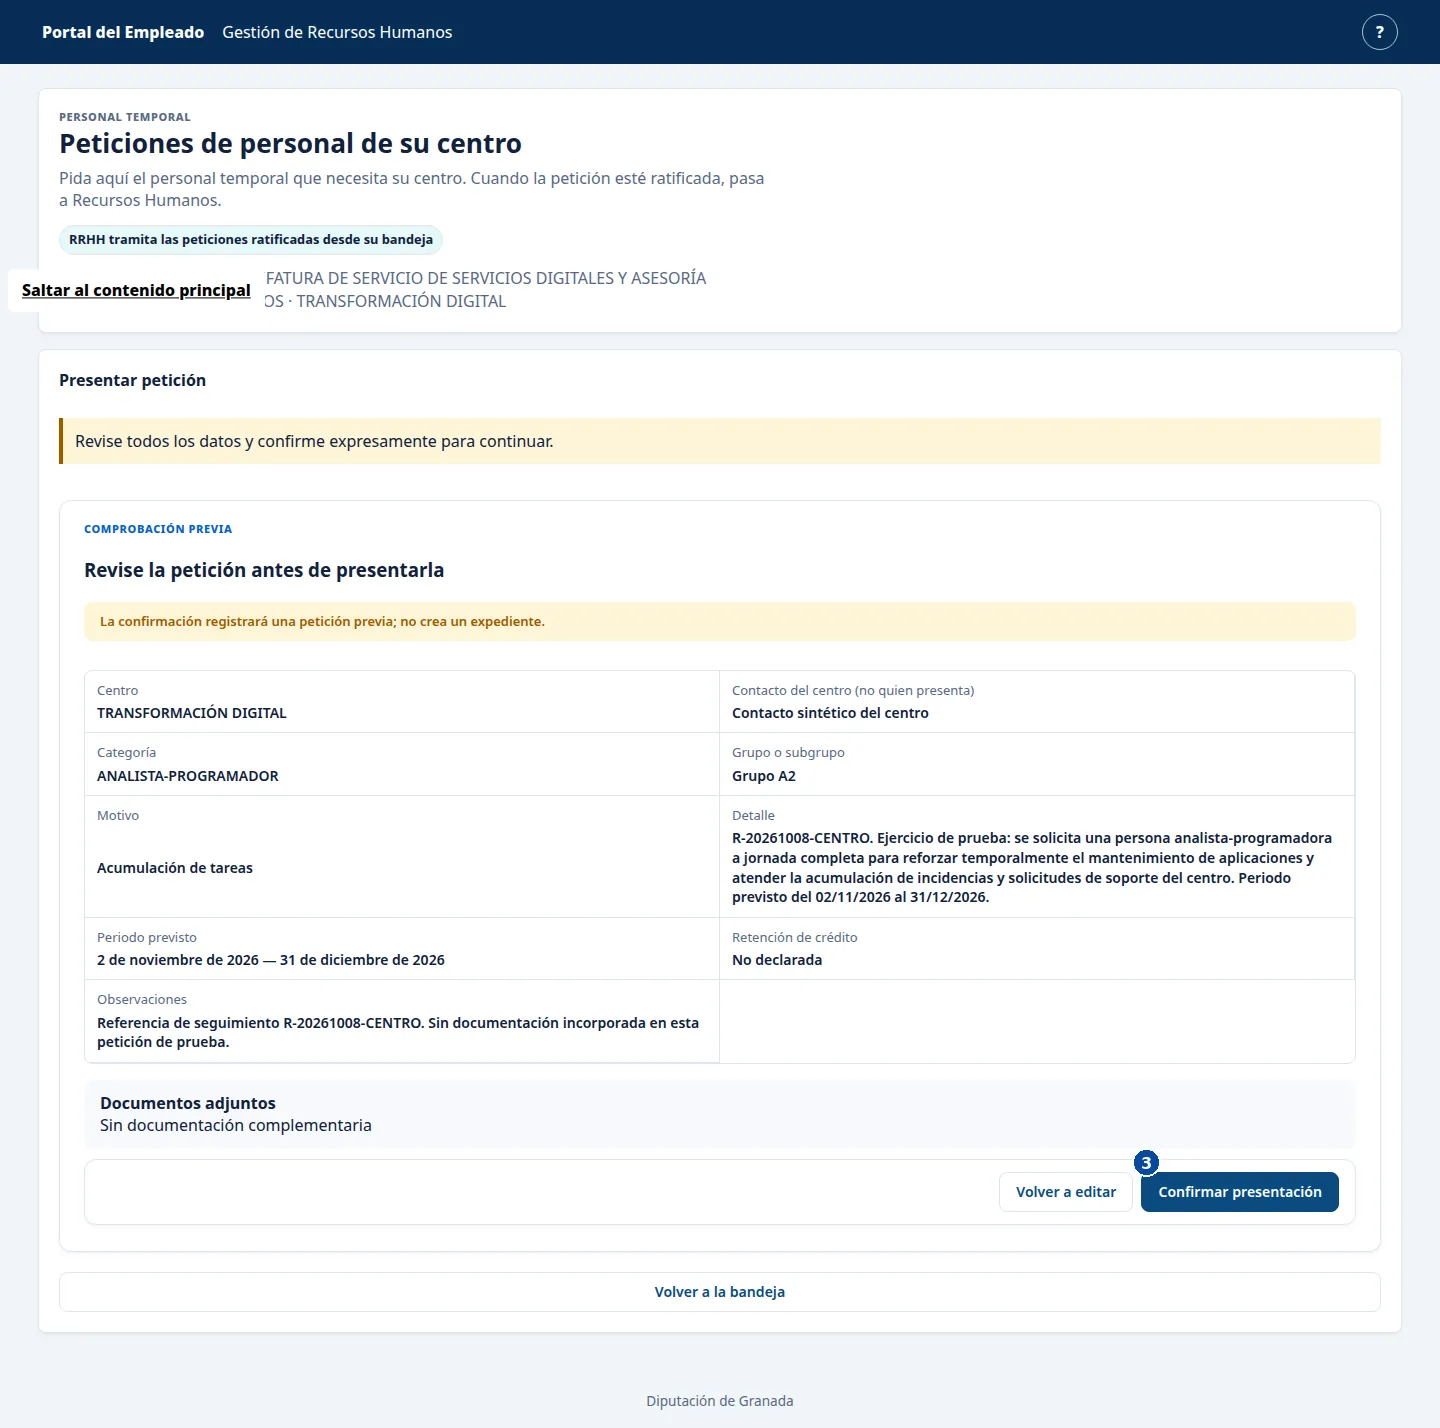
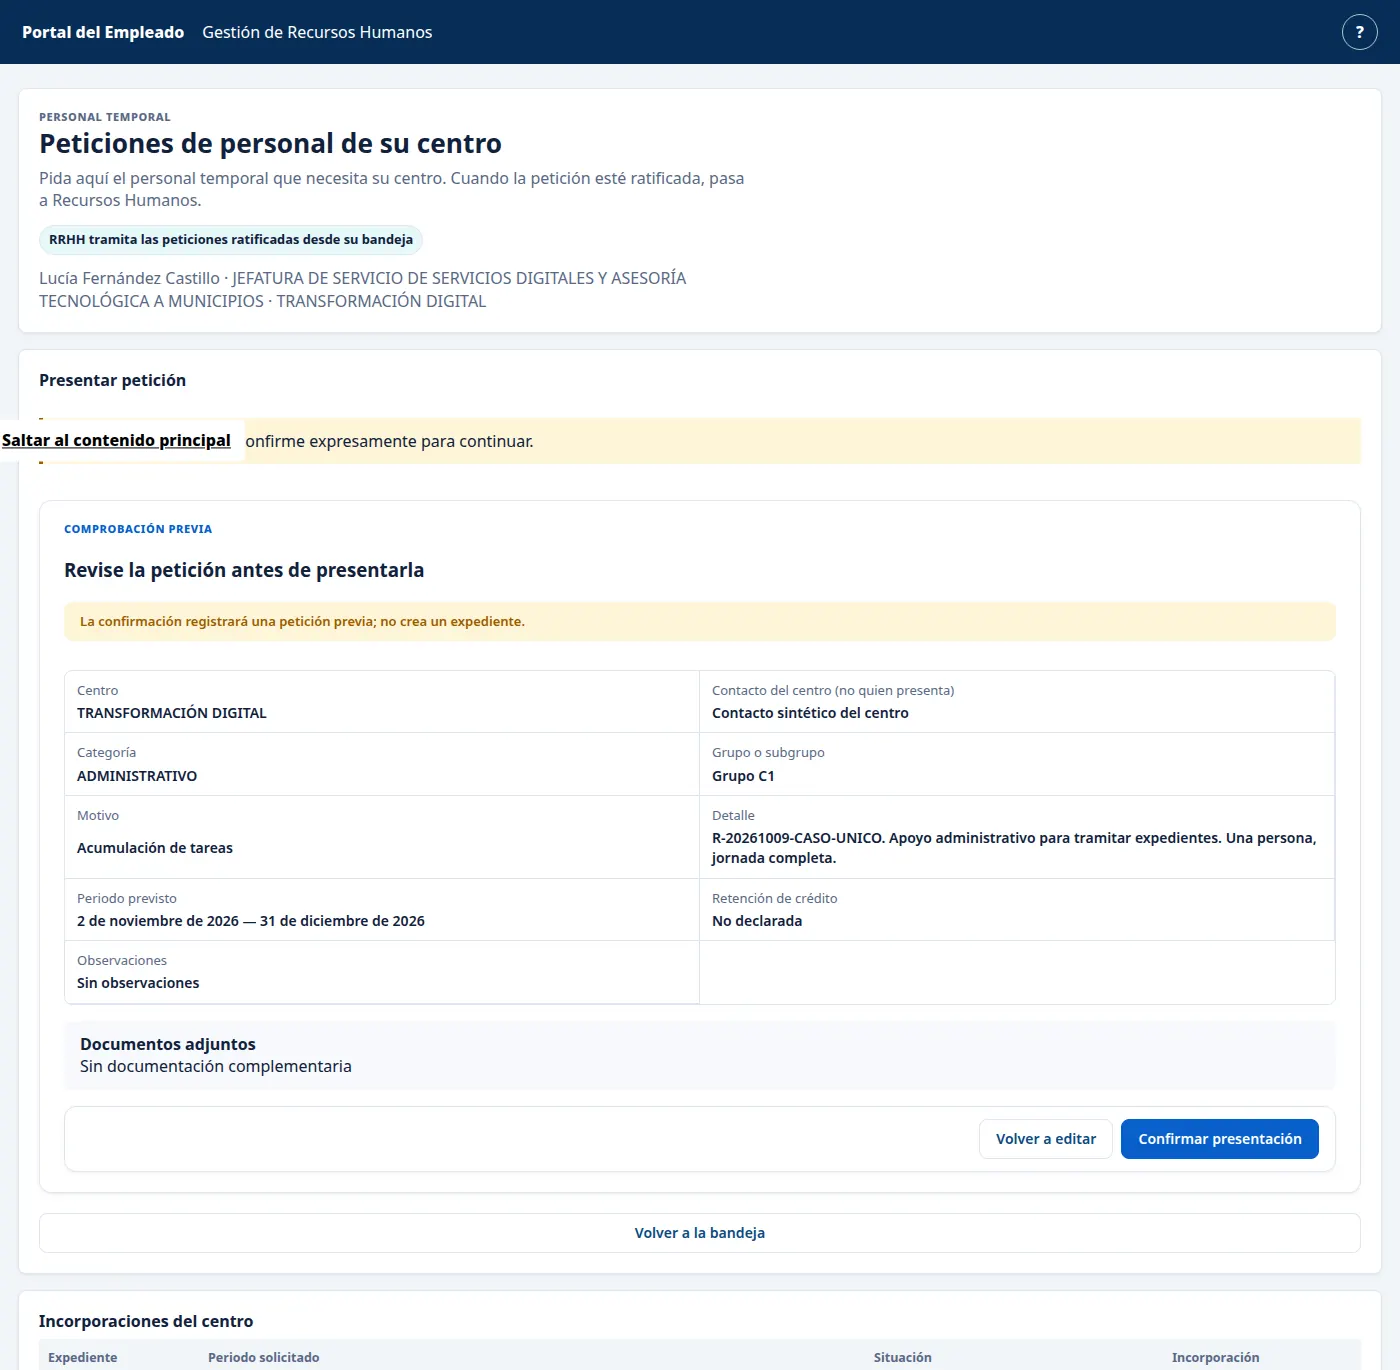
docs: actualizar manual centro con recorrido del 9 de octubre

diff --git a/docs/manuales/centro.md b/docs/manuales/centro.md
@@ -1,47 +1,47 @@
 # Centro: presentar una petición de personal temporal
 
-**Recorrido comprobado el 8 de octubre de 2026.** Esta guía cubre la petición previa que presenta un centro y su consulta posterior. La ratificación corresponde a otra persona. La petición llega a Recursos Humanos después de ratificarse.
+**Recorrido comprobado el 9 de octubre de 2026.** Esta guía explica cómo presentar una petición previa y consultarla después. Las imágenes son encuadres de capturas reales; dejan fuera otras peticiones que aparecían en la misma pantalla. Los datos y las fechas del ejemplo pueden cambiar.
 
 ## 1. Entrar en las peticiones del centro
 
-Abra [Peticiones de personal de su centro](https://vec.cidonia.cloud/portal-empleado/peticiones-centro/?lang=es) con su acceso de Centro. Compruebe el nombre y el centro que aparecen arriba. En el recorrido de la imagen figura Lucía Fernández Castillo, de TRANSFORMACIÓN DIGITAL. Si no reconoce sus datos, deténgase y comuníquelo a Informática.
+Abra [Peticiones de personal de su centro](https://vec.cidonia.cloud/portal-empleado/peticiones-centro/?lang=es) con su acceso de Centro. Compruebe su nombre, cargo y centro en la parte superior. En el recorrido figura Lucía Fernández Castillo, de TRANSFORMACIÓN DIGITAL. Si esos datos no le corresponden, deténgase y avise a Informática.
 
-En «Peticiones de su centro» se muestran las peticiones recientes. Pulse **«Nueva petición» (1)**.
+En «Peticiones de su centro» pulse «Nueva petición».
 
-![Bandeja de peticiones del centro con Nueva petición y Ver señalados.](img/centro-bandeja.webp)
+![Bandeja del centro con Nueva petición y la petición del ejemplo. Encuadre de la parte superior de la pantalla.](img/centro-bandeja.webp)
 
-## 2. Completar la necesidad
+## 2. Completar la petición
 
-En «Centro y necesidad», seleccione el centro que le corresponde y el contacto del centro. Elija la categoría, su grupo o subgrupo y el motivo entre las opciones de la pantalla. En el ejemplo se eligió ANALISTA-PROGRAMADOR, Grupo A2 y «Acumulación de tareas».
+En «Centro y necesidad», elija su centro, el contacto, la categoría, el grupo o subgrupo y el motivo. El ejemplo usa **ADMINISTRATIVO**, **Grupo C1** y **Acumulación de tareas**. Escriba en «Detalle de la necesidad» qué apoyo necesita y para qué. El ejemplo pidió apoyo administrativo para tramitar expedientes durante el periodo indicado.
 
-Escriba en «Detalle de la necesidad» qué personal necesita el centro y para qué. Indique las fechas previstas de inicio y fin. En «¿Existe retención de crédito?», responda según la documentación disponible; en el recorrido se marcó «No». Revise las observaciones y los documentos que muestra la pantalla. Pulse **«Revisar petición» (2)**.
+Indique las fechas previstas de inicio y fin. Complete «¿Existe retención de crédito?» de acuerdo con los datos de su centro; en el recorrido no se aportó una retención. Revise las observaciones y el apartado de documentación. Pulse «Revisar petición».
 
-![Formulario del centro con los datos de ejemplo y Revisar petición señalado.](img/centro-formulario.webp)
+![Formulario cumplimentado. Encuadre de los campos y el botón Revisar petición.](img/centro-formulario.webp)
 
-En móvil, los campos se colocan uno debajo de otro:
+En una pantalla estrecha, los campos se colocan uno debajo de otro:
 
-![Formulario de la petición del centro en una pantalla estrecha.](img/centro-formulario-movil.webp)
+![Formulario del centro en móvil. Encuadre de los campos.](img/centro-formulario-movil.webp)
 
 ## 3. Revisar y presentar
 
-Compruebe centro, contacto, categoría, motivo, detalle, fechas, retención y documentos. La pantalla avisa de que la confirmación registra una **petición previa** y todavía no crea un expediente. Cuando todo sea correcto, pulse **«Confirmar presentación» (3)** una sola vez.
+Compruebe centro, contacto, categoría, motivo, detalle, fechas, retención y documentos. La pantalla avisa: **«La confirmación registrará una petición previa; no crea un expediente»**. Cuando los datos sean correctos, pulse **«Confirmar presentación» una sola vez**.
 
-![Revisión de la petición antes de confirmar la presentación.](img/centro-revision.webp)
+![Revisión de la petición y control Confirmar presentación. Encuadre de la comprobación previa.](img/centro-revision.webp)
 
-La confirmación muestra «Operación registrada» y el estado **«Pendiente de ratificar»**. También indica cuándo se registró y que no hace falta enviarla otra vez. Esta captura se tomó en una pantalla de 390 píxeles:
+La pantalla muestra **«Operación registrada»**, **«Pendiente de ratificar»** y la fecha de registro. También dice que no hace falta enviarla otra vez. La imagen siguiente corresponde a la confirmación vista en móvil:
 
-![Confirmación móvil de la petición registrada y pendiente de ratificación.](img/centro-confirmacion-movil.webp)
+![Confirmación de la petición pendiente de ratificación en una pantalla de 390 píxeles. Encuadre del aviso.](img/centro-confirmacion-movil.webp)
 
-## 4. Consultar la petición
+## 4. Consultar la misma petición
 
-En la bandeja, localice la fila por fecha, centro, periodo y estado. Pulse **«Ver» (4)** para consultar los datos. Puede actualizar la página y volver a abrir la misma petición; en el recorrido se conservó el estado «Pendiente de ratificar» y la fecha de registro.
+Vuelva a «Peticiones de su centro» y localice la fila por fecha, centro, periodo y estado. Pulse **«Ver»** para consultar el detalle. En el recorrido, la misma petición seguía visible después de actualizar la página y al entrar de nuevo; conservaba sus datos y el estado «Pendiente de ratificar».
 
-![Detalle de la petición recuperada desde Ver.](img/centro-detalle.webp)
+![Detalle recuperado de la petición. Encuadre de sus datos y estado.](img/centro-detalle.webp)
 
-**«Pendiente de ratificar»** significa que la petición espera la revisión de la persona encargada de ratificarla. Recursos Humanos la recibe cuando esa ratificación se completa.
+**«Pendiente de ratificar»** significa que otra persona debe revisar la petición. Recursos Humanos la recibe cuando queda ratificada. La petición previa todavía no es un expediente.
 
 ## Si algo sale mal
 
-Si la bandeja dice «Todavía no hay peticiones de su centro», compruebe que ha entrado con su nombre y centro. Si esperaba ver una petición ya presentada, consulte con Informática antes de crear otra.
+Si la bandeja muestra **«Todavía no hay peticiones de su centro»** y esperaba encontrar una petición ya presentada, compruebe que aparece su nombre y centro. Si sigue sin verla, avise a Informática antes de presentar otra.
 
-Si ve «Operación registrada» y «No hace falta enviarla otra vez», vuelva a la bandeja y pulse «Ver» o actualice la página para consultar la petición. No pulse de nuevo «Confirmar presentación».
+Si ve **«Operación registrada»** y **«No hace falta enviarla otra vez»**, consulte la petición desde «Ver» o vuelva a cargar la bandeja. No pulse de nuevo «Confirmar presentación».
